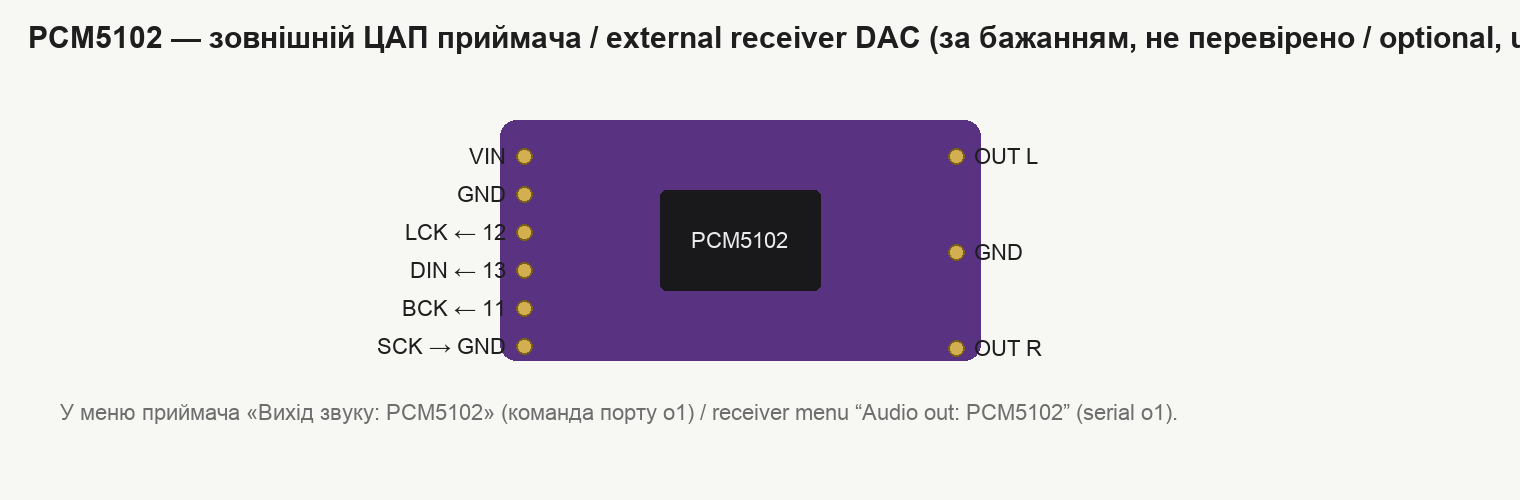
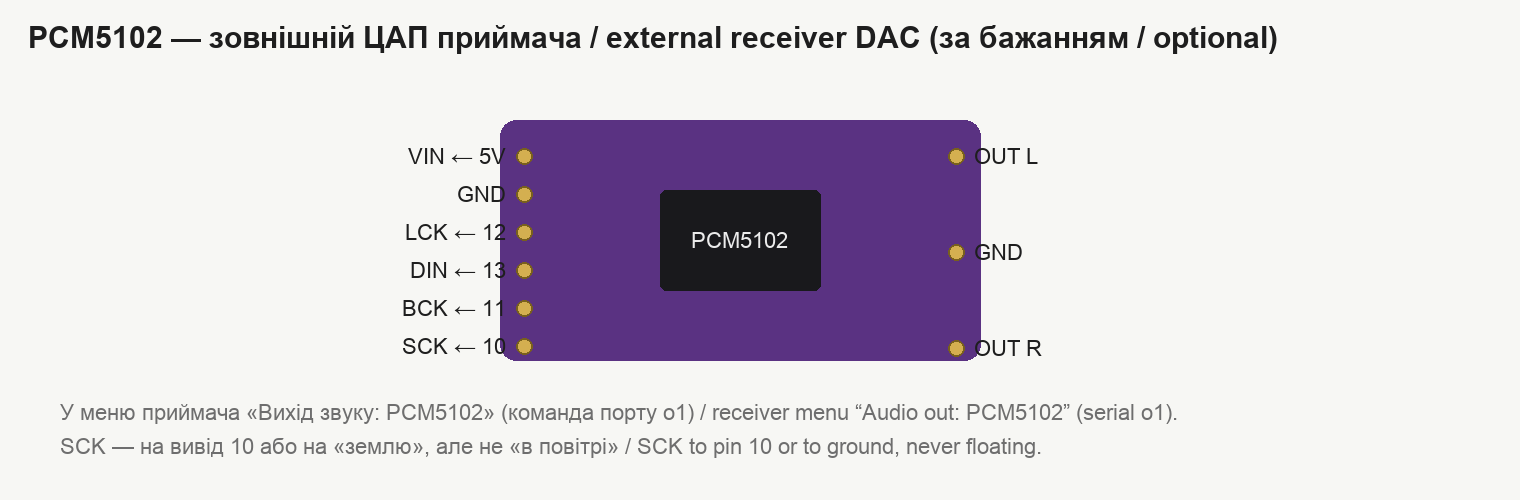
2.35: PCM5102 receiver output — master clock on pin 10, output status and pin check for I2S; docs: module jumpers

diff --git a/hearlink/rxaudio.h b/hearlink/rxaudio.h
@@ -254,13 +254,17 @@ static bool rxOutBegin() {
   cc.auto_clear = true;
   if (i2s_new_channel(&cc, &rxI2s, NULL) != ESP_OK) return false;
   if (cfg.output == OUT_I2S) {
-    // внешний ЦАП PCM5102; на модуле не проверено
+    // внешний ЦАП PCM5102
     i2s_std_config_t sc = {};
     sc.clk_cfg.sample_rate_hz = SRATE;
     sc.clk_cfg.clk_src = I2S_CLK_SRC_DEFAULT;
     sc.clk_cfg.mclk_multiple = I2S_MCLK_MULTIPLE_256;
     sc.slot_cfg = I2S_STD_PHILIPS_SLOT_DEFAULT_CONFIG(I2S_DATA_BIT_WIDTH_16BIT, I2S_SLOT_MODE_STEREO);
-    sc.gpio_cfg.mclk = I2S_GPIO_UNUSED;
+    // Главный такт (SCK микросхемы) — на выводе 10: 256 × 32 кГц = 8,192 МГц. Владелец 08.10: «может сигнал sck не
+    // подключать на землю, а использовать полноценно?» — да: с настоящим тактом ЦАП не зависит от своего умножителя,
+    // которому при SCK «на земле» приходится восстанавливать такт из BCK (1,024 МГц — у самого нижнего края того, что
+    // он умеет). Если на модуле SCK уже замкнут на «землю» перемычкой, вывод 10 к нему НЕ подключать (замыкание выхода).
+    sc.gpio_cfg.mclk = (gpio_num_t)PIN_I2S_MCLK;
     sc.gpio_cfg.bclk = (gpio_num_t)PIN_I2S_BCK;
     sc.gpio_cfg.ws = (gpio_num_t)PIN_I2S_WS;
     sc.gpio_cfg.dout = (gpio_num_t)PIN_I2S_DOUT;
@@ -329,9 +333,11 @@ static void rxPdmSlot(bool hp, int dither, int dither2) {
 // заработал, а в ожидании — что он остановлен (с передатчика это видно в списке приёмников: «вихід живий / стоїть»).
 static volatile uint8_t rxOutDuty[2];
 static void rxOutProbe() {
-  if (cfg.output != OUT_PDM) return;
+  // У внешнего ЦАП (PCM5102) смотрим такты: BCK и LRCK должны «дрожать». До 2.35 выход I2S не проверялся вовсе, и
+  // передатчик показывал у такого приёмника «вихід СТОЇТЬ», хотя такты шли.
   int k = 0;
-  for (int pin : { PIN_OUT_P, PIN_OUT_N }) {
+  const int pa = cfg.output == OUT_PDM ? PIN_OUT_P : PIN_I2S_BCK, pb = cfg.output == OUT_PDM ? PIN_OUT_N : PIN_I2S_WS;
+  for (int pin : { pa, pb }) {
     gpio_input_enable((gpio_num_t)pin);   // только чтение уровня; выход остаётся за однобитным преобразователем
     int ones = 0;
     for (int i = 0; i < 200; i++) {
@@ -342,7 +348,7 @@ static void rxOutProbe() {
   }
 }
 static inline bool rxOutLive() {
-  return cfg.output == OUT_PDM && rxOutDuty[0] > 1 && rxOutDuty[0] < 99 && rxOutDuty[1] > 1 && rxOutDuty[1] < 99;
+  return rxOutDuty[0] > 1 && rxOutDuty[0] < 99 && rxOutDuty[1] > 1 && rxOutDuty[1] < 99;
 }
 
 static void rxPinsStatic(int level) {   // остановить выход и поставить оба вывода на «землю» или на питание
@@ -469,7 +475,10 @@ static void rxTask(void *) {
         }
         rxPinsStatic(0);
         rxOutProbe();
-      } else i2s_channel_disable(rxI2s);   // у PCM5102 без тактов выход глушится сам
+      } else {
+        i2s_channel_disable(rxI2s);   // у PCM5102 без тактов выход глушится сам
+        rxOutProbe();                 // такты встали — передатчик увидит «вихід СТОЇТЬ»
+      }
       rxPlaying = false;
       rxPeak = 0;
       rxPeakL = 0;

diff --git a/tools/gen_modules.py b/tools/gen_modules.py
@@ -106,9 +106,10 @@ small('max', 'MAX97220 — підсилювач навушників / headphone
       ['VCC', 'GND', 'R− ← 18', 'R+ ← 17'], ['L− ← 18', 'L+ ← 17', 'CTRL', 'R · G · L → навушники'],
       ['Різницевий вхід: «+» на L+ і R+, «−» на L− і R−; у меню приймача «Виводи: протифаза».',
        'Differential input: “+” to L+ and R+, “−” to L− and R−; receiver menu “Pins: antiphase”.'], 'mod-max97220.png')
-small('pcm5102', 'PCM5102 — зовнішній ЦАП приймача / external receiver DAC (за бажанням, не перевірено / optional, untested)', PURPLE, 'PCM5102',
-      ['VIN', 'GND', 'LCK ← 12', 'DIN ← 13', 'BCK ← 11', 'SCK → GND'], ['OUT L', 'GND', 'OUT R'],
-      ['У меню приймача «Вихід звуку: PCM5102» (команда порту o1) / receiver menu “Audio out: PCM5102” (serial o1).'], 'mod-pcm5102.png')
+small('pcm5102', 'PCM5102 — зовнішній ЦАП приймача / external receiver DAC (за бажанням / optional)', PURPLE, 'PCM5102',
+      ['VIN ← 5V', 'GND', 'LCK ← 12', 'DIN ← 13', 'BCK ← 11', 'SCK ← 10'], ['OUT L', 'GND', 'OUT R'],
+      ['У меню приймача «Вихід звуку: PCM5102» (команда порту o1) / receiver menu “Audio out: PCM5102” (serial o1).',
+       'SCK — на вивід 10 або на «землю», але не «в повітрі» / SCK to pin 10 or to ground, never floating.'], 'mod-pcm5102.png')
 small('pcm1808', 'PCM1808 — зовнішній АЦП передавача / external transmitter ADC (за бажанням, не перевірено / optional, untested)', PURPLE, 'PCM1808',
       ['LIN', 'GND', 'RIN'], ['5V / 3V3', 'GND', 'SCK ← IO43', 'BCK ← IO1', 'LRC ← IO2', 'OUT → IO40', 'FMT, MD → GND'],
       ['На передавачі: «Звук» → «Вхід: PCM1808» (команда порту a1). Поки він працює, передавач не друкує в порт.',

diff --git a/hearlink/config.h b/hearlink/config.h
@@ -2,7 +2,7 @@
 #pragma once
 #include <Arduino.h>
 
-#define FW_VERSION "2.34"
+#define FW_VERSION "2.35"
 #define SRATE 32000        // отсчётов звука в секунду
 #define FRAME 64        // отсчётов в одном куске звука (2 мс); пакет набирается из 1–6 кусков — см. качество
 #define MAGIC 0x4C48    // «HL» — по этим байтам свои пакеты отличаются от чужих

diff --git a/docs/uk/hardware.md b/docs/uk/hardware.md
@@ -23,7 +23,7 @@
 | Плата | **ESP32-S3-DevKitC-1 N16R8** (або сумісна з 16 МБ флеш і 8 МБ PSRAM) | PSRAM потрібна для оновлення по радіо: образ 2,2 МБ приймається в пам'ять цілком |
 | Екран із ручкою | модуль «M75»: OLED **SH1106 1,3″ 128×64 I2C** + енкодер **EC11** з кнопкою | живити **тільки від 3,3 В**: підтяжки I2C на модулі йдуть до VCC |
 | Вихід звуку | навушники напряму: на кожне плече 1 кОм + 10 нФ і розділовий конденсатор 1 мкФ | або підсилювач навушників із різницевим входом (MAX97220) |
-| Зовнішній ЦАП (за бажанням) | модуль **PCM5102** | у прошивці є, на платах не перевірено |
+| Зовнішній ЦАП (за бажанням) | модуль **PCM5102** | чистіший звук: шум живлення процесора в навушники не потрапляє; див. розділ нижче |
 | Живлення | повербанк або акумулятор із виходом 5 В | екран не обов'язковий: без нього приймач просто грає |
 
 Плата приймача може бути й без екрана та ручки — тоді ним керують із передавача (гучність, вимкнення, усі
@@ -71,7 +71,7 @@
 | Ручка: A (TRA), B (TRB), кнопка (PSH) | 5, 6, 7 |
 | Кнопки модуля CON, BAK (не використовуються, підтягнуті) | 15, 16 |
 | Вихід звуку «+», «−» (однобітний PDM) | 17, 18 |
-| PCM5102: BCK, LCK, DIN | 11, 12, 13 |
+| PCM5102: SCK (головний такт 8,192 МГц), BCK, LCK, DIN | 10, 11, 12, 13 |
 | Кольоровий світлодіод плати (WS2812) | 48 (у нових плат — 38) |
 
 ### Передавач на модулі ESP32-4848S040
@@ -115,6 +115,35 @@ C1 1 мкФ відділяє постійну складову, C2 4,7 нФ зр
 [приймач + PCM5102](../skhema-priemnik-s3-pcm5102.png).
 
 Схеми малює `tools/gen_schema.py`; є також у SVG.
+
+## Зовнішній ЦАП PCM5102 на приймачі
+
+| Модуль PCM5102 | Плата приймача |
+|---|---|
+| VIN | 5V |
+| GND | GND |
+| SCK | **10** — головний такт 8,192 МГц (з версії 2.35) |
+| BCK | 11 |
+| LCK (LRCK) | 12 |
+| DIN | 13 |
+
+- У меню приймача: «Вихід звуку» → **PCM5102** (плата перезапуститься); з порту — `o1`. Навушники з виводів 17/18
+  у цьому режимі мовчать.
+- **SCK**: або на вивід 10, або на «землю» (тоді ЦАП відновлює такт із BCK сам). Якщо на модулі SCK уже замкнений
+  на «землю» краплею припою — вивід 10 до нього **не під'єднувати**. «У повітрі» SCK лишати не можна: ЦАП мовчить.
+- **Перемички на звороті модуля мають бути запаяні.** На деяких модулях GY-PCM5102 вони приходять незапаяними —
+  тоді ЦАП мовчить, хоча всі сигнали йдуть (перевірено 08.10.2026: звук з'явився, щойно середній контакт H3L
+  з'єднали з «H»). Кожна перемичка — три площадки: середня і «L» / «H».
+
+  | Перемичка | Вивід ЦАП | Що задає | Як запаяти | Пояснення |
+  |---|---|---|---|---|
+  | H1L | FLT | цифровий фільтр | **L** | звичайний фільтр із лінійною фазою; H — із малою затримкою |
+  | H2L | DEMP | корекція передспотворень | **L** | вимкнено; H — лише для старих записів 44,1 кГц |
+  | H3L | XSMT | приглушення | **H** | звук увімкнено; на L або «в повітрі» — тиша |
+  | H4L | FMT | формат даних | **L** | I2S (так шле приймач); H — інший формат, звук буде спотворений |
+- Перевірка без приладів: команда порту `n8=7` друкує, чи «тремтять» виводи 10–13 (частка одиниць близько 50 %).
+  На передавачі в списку приймачів — «вихід живий».
+- Вихід ЦАП — лінійний: навушники 16–32 Ом прямо від нього грають тихо; повну гучність дає підсилювач.
 
 ## Два способи під'єднати навушники
 

diff --git a/docs/en/hardware.md b/docs/en/hardware.md
@@ -23,7 +23,7 @@
 | Board | **ESP32-S3-DevKitC-1 N16R8** (or a compatible one with 16 MB flash and 8 MB PSRAM) | PSRAM is needed for the over-the-air update: the 2.2 MB image is received into memory as a whole |
 | Display with knob | "M75" module: OLED **SH1106 1.3″ 128×64 I2C** + **EC11** encoder with a button | power it **from 3.3 V only**: the I2C pull-ups on the module go to VCC |
 | Audio output | headphones directly: 1 kΩ + 10 nF on each leg and a 1 µF coupling capacitor | or a headphone amplifier with a differential input (MAX97220) |
-| External DAC (optional) | **PCM5102** module | supported in the firmware, not verified on the boards |
+| External DAC (optional) | **PCM5102** module | cleaner sound: CPU supply noise does not reach the headphones; see the section below |
 | Power | power bank or a battery with a 5 V output | the display is optional: without it the receiver simply plays |
 
 The receiver board can also have no display and no knob — it is then controlled from the transmitter (volume,
@@ -73,7 +73,7 @@ easy to find by name: “ESP32-4848S040”, “SH1106 1.3 OLED EC11”, “MAX97
 | Knob: A (TRA), B (TRB), button (PSH) | 5, 6, 7 |
 | Module buttons CON, BAK (not used, pulled up) | 15, 16 |
 | Audio output "+", "−" (one-bit PDM) | 17, 18 |
-| PCM5102: BCK, LCK, DIN | 11, 12, 13 |
+| PCM5102: SCK (master clock 8.192 MHz), BCK, LCK, DIN | 10, 11, 12, 13 |
 | On-board RGB LED (WS2812) | 48 (38 on newer boards) |
 
 ### Transmitter on the ESP32-4848S040 module
@@ -117,6 +117,36 @@ Variants with external converters (not verified on the boards):
 [receiver + PCM5102](../skhema-priemnik-s3-pcm5102.png).
 
 The schematics are drawn by `tools/gen_schema.py`; they are also available as SVG.
+
+## External PCM5102 DAC on the receiver
+
+| PCM5102 module | Receiver board |
+|---|---|
+| VIN | 5V |
+| GND | GND |
+| SCK | **10** — master clock 8.192 MHz (since version 2.35) |
+| BCK | 11 |
+| LCK (LRCK) | 12 |
+| DIN | 13 |
+
+- In the receiver menu: «Вихід звуку» (Audio out) → **PCM5102** (the board restarts); from the serial port — `o1`.
+  Headphones on pins 17/18 are silent in this mode.
+- **SCK**: either to pin 10, or to ground (then the DAC recovers the clock from BCK by itself). If SCK on your
+  module is already shorted to ground with a solder blob, do **not** connect pin 10 to it. SCK must never be left
+  floating: the DAC stays silent.
+- **The solder jumpers on the back of the module must be closed.** Some GY-PCM5102 modules ship with them open —
+  then the DAC is silent although every signal is present (verified on 2026-10-08: sound appeared as soon as the
+  middle pad of H3L was bridged to “H”). Each jumper has three pads: the middle one and “L” / “H”.
+
+  | Jumper | DAC pin | Sets | Bridge to | Notes |
+  |---|---|---|---|---|
+  | H1L | FLT | digital filter | **L** | normal linear-phase filter; H — low-latency filter |
+  | H2L | DEMP | de-emphasis | **L** | off; H — only for old 44.1 kHz recordings |
+  | H3L | XSMT | soft mute | **H** | sound on; at L or floating — silence |
+  | H4L | FMT | data format | **L** | I2S (what the receiver sends); H — another format, the sound will be distorted |
+- A check without instruments: the serial command `n8=7` prints whether pins 10–13 are toggling (share of ones
+  about 50 %). On the transmitter the receiver list shows “вихід живий” (output alive).
+- The DAC output is line level: 16–32 Ω headphones driven directly are quiet; an amplifier gives full volume.
 
 ## Two ways to connect headphones
 

diff --git a/docs/uk/troubleshooting.md b/docs/uk/troubleshooting.md
@@ -42,6 +42,7 @@
 | звук «пливе» за висотою | дуже нерівний ефір | збільшити «Запас» вручну (15–25 мс) |
 | тихо навіть на 100 % | навушники напряму мають малу віддачу; ввімкнена «Межа гучн.» | перевірити «Межа гучн.»; підсилювач навушників; навушники з більшою чутливістю |
 | звук лише в одному вусі / «навиворіт» | «Виводи» не відповідають під'єднанню; баланс | навушники напряму — «2 канали»; «Баланс» — «рівно»; «Навушники → тест» покаже, де ліве й праве |
+| PCM5102 мовчить | **не запаяні перемички на звороті модуля (H3L має бути на «H»)**; не вибрано вихід PCM5102; SCK «у повітрі»; переплутані BCK/LCK/DIN | меню «Вихід звуку: PCM5102»; SCK на вивід 10 або на «землю»; перемичка 3 на «H»; `n8=7` покаже, чи йдуть такти — див. [Обладнання](hardware.md#зовнішній-цап-pcm5102-на-приймачі) |
 | шум у тиші | однобітний вихід без фільтра; живлення | RC-фільтр за схемою; інший блок/повербанк; `X` з передавача — перевірка, звідки шум |
 | клацання при ввімкненні/засинанні | немає розділових конденсаторів | зібрати вихід за схемою |
 | ручка крутить «не туди» | переплутані виводи A і B | поміняти місцями 5 і 6 |

diff --git a/docs/en/troubleshooting.md b/docs/en/troubleshooting.md
@@ -42,6 +42,7 @@
 | the sound "drifts" in pitch | very uneven air | increase "Buffer" manually (15–25 ms) |
 | quiet even at 100 % | directly connected headphones have low output; «Межа гучн.» (Volume limit) is turned on | check "Volume limit"; a headphone amplifier; headphones with a higher sensitivity |
 | sound in one ear only / "inside out" | «Виводи» (Pins) does not match the wiring; balance | headphones directly — «2 канали» (2 channels); «Баланс» (Balance) — «рівно» (center); «Навушники → тест» (Headphones → test) shows which is left and which is right |
+| PCM5102 is silent | **the solder jumpers on the back of the module are open (H3L must be bridged to “H”)**; the PCM5102 output is not selected; SCK is floating; BCK/LCK/DIN are swapped | menu «Вихід звуку: PCM5102»; SCK to pin 10 or to ground; jumper 3 to “H”; `n8=7` shows whether the clocks are running — see [Hardware](hardware.md#external-pcm5102-dac-on-the-receiver) |
 | noise in silence | a one-bit output without a filter; power | an RC filter as in the schematic; another supply/power bank; `X` from the transmitter — a check of where the noise comes from |
 | clicks at power-on / when falling asleep | no coupling capacitors | build the output as in the schematic |
 | the knob turns "the wrong way" | pins A and B are swapped | swap 5 and 6 |

diff --git a/docs/uk/technical.md b/docs/uk/technical.md
@@ -292,6 +292,6 @@
   підключення зовнішньої антени систематичних вимірів не було.
 - Затримка «від входу до навушників» акустично: оцінка 12–15 мс для «найвищої», ~20, 30–35 і 40–50 мс для решти.
 - Споживання приймача в роботі й у сні, час роботи від акумулятора.
-- PCM1808 на модулі передавача та PCM5102 на приймачі.
+- PCM1808 на модулі передавача. (PCM5102 на приймачі звук дає — перевірено 08.10.2026; якість звуку з ним ще оцінюється.)
 - Більше двох приймачів одночасно.
 - Причина рідкісної зупинки драйвера Wi-Fi передавача (він оживляється сам, подробиці пише «чорна скринька»).

diff --git a/docs/uk/commands.md b/docs/uk/commands.md
@@ -101,6 +101,7 @@
 | `n8=3` / `n8=4` | повернути на один клац в один і в другий бік |
 | `n8=5` | натиснути на секунду, не затримуючи головний цикл |
 | `n8=6` | те саме через 30 с — перевірка пробудження зі сну (уві сні порт не слухає) |
+| `n8=7` | що на виводах виходу звуку: частка одиниць і перепади на 10 (SCK), 11 (BCK), 12 (LRCK), 13 (дані), 17, 18 (PDM) |
 | `n8=2` | лишити вивід «брудним», як після сну в старих версіях (перевірка очищення при запуску) |
 
 ## Налагодження по радіо

diff --git a/docs/en/technical.md b/docs/en/technical.md
@@ -308,7 +308,7 @@ Things that have already been stepped on — so as not to step on them again.
 - The "input to headphones" delay acoustically: the estimate is 12–15 ms for "highest", ~20, 30–35 and 40–50 ms for
   the others.
 - Receiver power consumption in operation and in sleep, battery run time.
-- PCM1808 on the transmitter module and PCM5102 on the receiver.
+- PCM1808 on the transmitter module. (PCM5102 on the receiver does produce sound — verified on 2026-10-08; its sound quality is still being evaluated.)
 - More than two receivers at the same time.
 - The cause of the rare stall of the transmitter's Wi-Fi driver (it revives itself; the details are written by the
   "black box").

diff --git a/CHANGELOG.md b/CHANGELOG.md
@@ -1,5 +1,11 @@
 # Changelog / Історія версій
 
+## 2.35 — 2026-10-08
+- EN: receiver with an external PCM5102 DAC: the master clock (SCK, 8.192 MHz) is now output on pin 10; the
+  “output alive” status and the `n8=7` pin check work for the I2S output too.
+- UK: приймач із зовнішнім ЦАП PCM5102: головний такт (SCK, 8,192 МГц) тепер виходить на вивід 10; стан «вихід
+  живий» і перевірка виводів `n8=7` працюють і для виходу I2S.
+
 ## 2.34 — 2026-10-07
 **EN**
 - Receiver menu: main-screen views (spectrum / needle meters / large volume), LED brightness, language, speech

diff --git a/docs/en/commands.md b/docs/en/commands.md
@@ -101,6 +101,7 @@ The pin shorts itself to ground — exactly what the button or the encoder conta
 | `n8=3` / `n8=4` | turn by one click in one direction and in the other |
 | `n8=5` | press for a second without holding up the main loop |
 | `n8=6` | the same after 30 s — a check of waking from sleep (in sleep the port is not listened to) |
+| `n8=7` | what is on the audio output pins: share of ones and edges on 10 (SCK), 11 (BCK), 12 (LRCK), 13 (data), 17, 18 (PDM) |
 | `n8=2` | leave the pin "dirty", as after sleep in old versions (a check of the cleanup at startup) |
 
 ## Debugging over the radio
